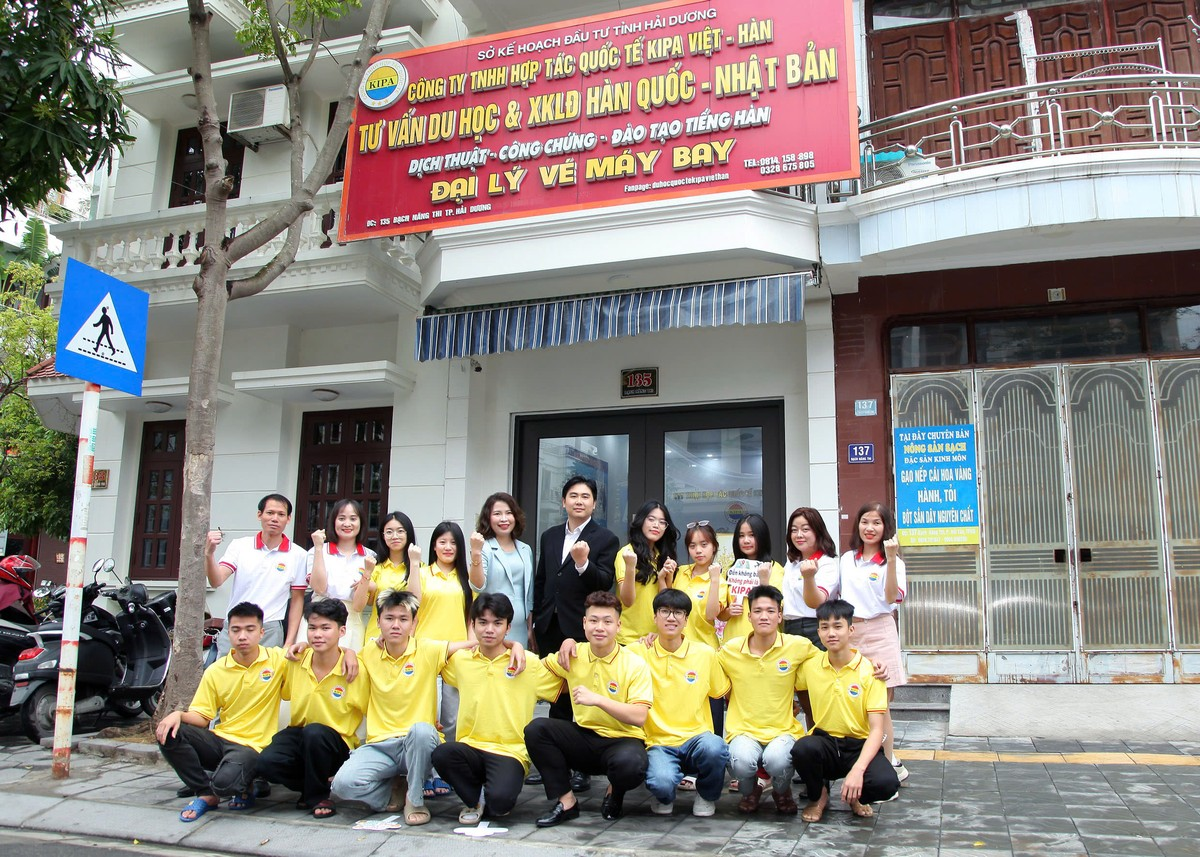
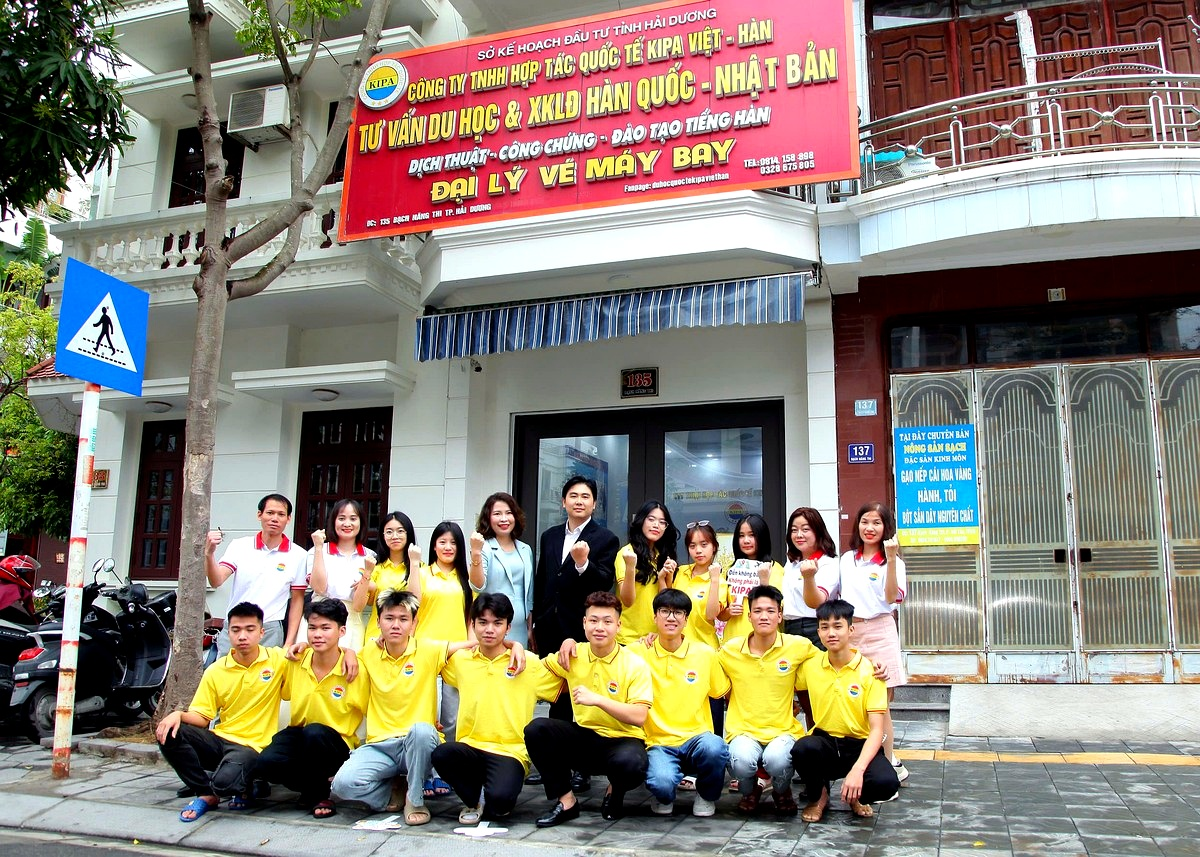
fix(du-hoc-han-quoc): bo lop phu tren anh hero, nang do tuong phan va do net anh thuc te ro rang 100%

diff --git a/du-hoc-han-quoc.html b/du-hoc-han-quoc.html
@@ -929,24 +929,12 @@
 
                 <!-- Right Visual: Authentic KIPA Student Delegation -->
                 <div class="lg:col-span-6 flex justify-center lg:justify-end relative">
-                    <div class="relative w-full max-w-[580px] rounded-3xl overflow-hidden shadow-2xl border-4 border-white group" style="background-color: #081D36; min-height: 340px;">
-                        <img src="/assets/du-hoc-han-quoc/hero_du_hoc_thuc_te.jpg?v=20261116-v3" 
+                    <div class="relative w-full max-w-[580px] rounded-3xl overflow-hidden shadow-2xl border-4 border-white group">
+                        <img src="/assets/du-hoc-han-quoc/hero_du_hoc_thuc_te.jpg?v=20261116-v4" 
                              alt="Đoàn du học sinh KIPA Việt Hàn xuất cảnh Hàn Quốc" 
-                             class="w-full object-cover object-center transform group-hover:scale-105 transition duration-700 block"
-                             style="width: 100%; height: 380px; object-fit: cover; display: block;"
+                             class="w-full h-auto object-cover object-center transform group-hover:scale-105 transition duration-700 block"
                              onerror="this.onerror=null; this.src='/assets/du-hoc-han-quoc/hero_visual.png';"
                              loading="eager">
-                        <div class="absolute inset-0 flex items-end p-5 sm:p-6 pointer-events-none" style="background: linear-gradient(to top, rgba(8, 29, 54, 0.95) 0%, rgba(8, 29, 54, 0.4) 60%, transparent 100%);">
-                            <div class="text-white">
-                                <div class="inline-flex items-center gap-2 px-3 py-1 rounded-full bg-white/20 backdrop-blur-md text-xs font-bold mb-2">
-                                    <span>🇰🇷 Du học Hàn Quốc</span>
-                                    <span>✈</span>
-                                    <span>Đoàn xuất cảnh thực tế</span>
-                                </div>
-                                <h3 class="font-phudu font-bold text-base sm:text-lg text-white leading-snug">Học viên KIPA Việt Hàn xuất cảnh du học Hàn Quốc</h3>
-                                <p class="text-xs text-slate-200 mt-1">Đồng hành trọn vẹn từ đào tạo tiếng, xử lý hồ sơ visa đến khi nhập học thành công</p>
-                            </div>
-                        </div>
                     </div>
                 </div>
 

diff --git a/du-hoc-han-quoc/index.html b/du-hoc-han-quoc/index.html
@@ -929,24 +929,12 @@
 
                 <!-- Right Visual: Authentic KIPA Student Delegation -->
                 <div class="lg:col-span-6 flex justify-center lg:justify-end relative">
-                    <div class="relative w-full max-w-[580px] rounded-3xl overflow-hidden shadow-2xl border-4 border-white group" style="background-color: #081D36; min-height: 340px;">
-                        <img src="/assets/du-hoc-han-quoc/hero_du_hoc_thuc_te.jpg?v=20261116-v3" 
+                    <div class="relative w-full max-w-[580px] rounded-3xl overflow-hidden shadow-2xl border-4 border-white group">
+                        <img src="/assets/du-hoc-han-quoc/hero_du_hoc_thuc_te.jpg?v=20261116-v4" 
                              alt="Đoàn du học sinh KIPA Việt Hàn xuất cảnh Hàn Quốc" 
-                             class="w-full object-cover object-center transform group-hover:scale-105 transition duration-700 block"
-                             style="width: 100%; height: 380px; object-fit: cover; display: block;"
+                             class="w-full h-auto object-cover object-center transform group-hover:scale-105 transition duration-700 block"
                              onerror="this.onerror=null; this.src='/assets/du-hoc-han-quoc/hero_visual.png';"
                              loading="eager">
-                        <div class="absolute inset-0 flex items-end p-5 sm:p-6 pointer-events-none" style="background: linear-gradient(to top, rgba(8, 29, 54, 0.95) 0%, rgba(8, 29, 54, 0.4) 60%, transparent 100%);">
-                            <div class="text-white">
-                                <div class="inline-flex items-center gap-2 px-3 py-1 rounded-full bg-white/20 backdrop-blur-md text-xs font-bold mb-2">
-                                    <span>🇰🇷 Du học Hàn Quốc</span>
-                                    <span>✈</span>
-                                    <span>Đoàn xuất cảnh thực tế</span>
-                                </div>
-                                <h3 class="font-phudu font-bold text-base sm:text-lg text-white leading-snug">Học viên KIPA Việt Hàn xuất cảnh du học Hàn Quốc</h3>
-                                <p class="text-xs text-slate-200 mt-1">Đồng hành trọn vẹn từ đào tạo tiếng, xử lý hồ sơ visa đến khi nhập học thành công</p>
-                            </div>
-                        </div>
                     </div>
                 </div>
 
